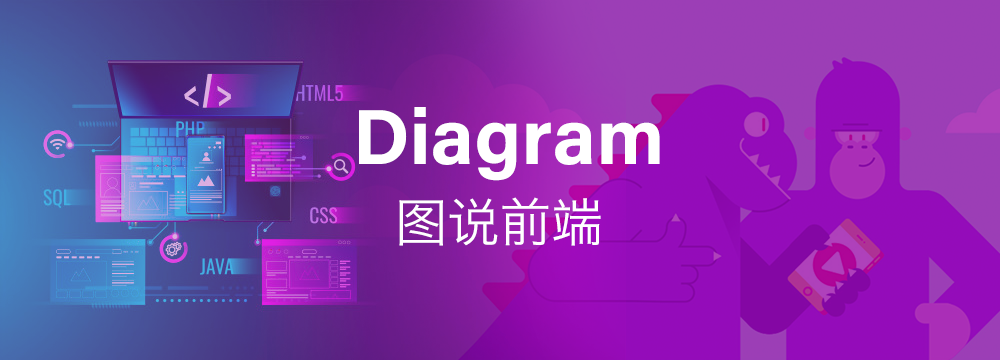
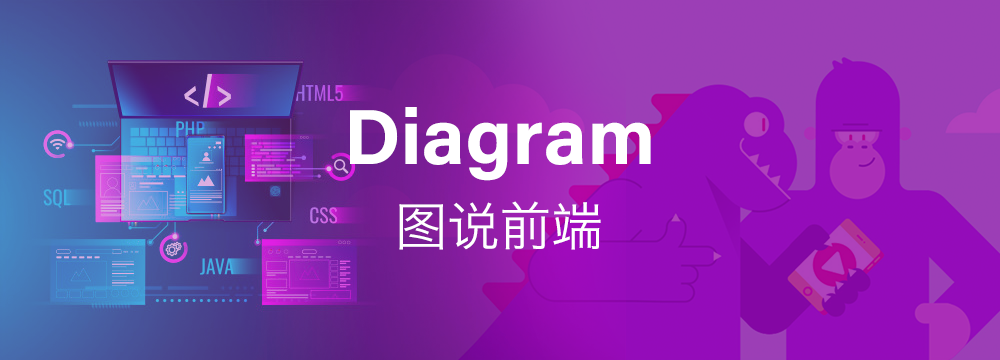
add file

Changed region(s): [[0.341, 0.275, 0.682, 0.5194], [0.403, 0.55, 0.62, 0.7028]]

diff --git a/README.md b/README.md
@@ -1,3 +1,3 @@
 # TNFE-Diagram
-
+![](https://github.com/Tnfe/TNFE-Diagram/blob/master/assets/banner.png?raw=true)
 
